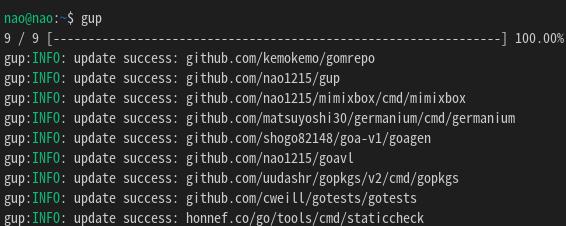
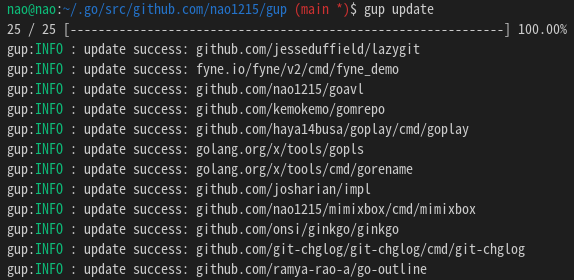
Update readme (for v0.6.0)

Changed region(s): [[0.0, 0.0, 1.0, 1.0], [0.2703, 0.0929, 0.5106, 0.1239], [0.5406, 0.0929, 0.6307, 0.1239]]

diff --git a/doc/ja/README.md b/doc/ja/README.md
@@ -2,7 +2,7 @@
 [![UnitTest](https://github.com/nao1215/gup/actions/workflows/unit_test.yml/badge.svg)](https://github.com/nao1215/gup/actions/workflows/unit_test.yml)
 [![reviewdog](https://github.com/nao1215/gup/actions/workflows/reviewdog.yml/badge.svg)](https://github.com/nao1215/gup/actions/workflows/reviewdog.yml)
 # gupとは
-**gup**コマンドは、"go install"でインストールしたバイナリを最新版にアップデートします。
+**gup**コマンドは、"go install"でインストールしたバイナリを最新版にアップデートします。gupは、\$GOPATH/bin (\$GOBIN) 以下にあるバイナリをするためのサブコマンドも提供しています。
 ![sample](../img/sample.png)
 # インストール方法
 ### Step.1 前準備
@@ -15,10 +15,10 @@ $ go install github.com/nao1215/gup@latest
 
 # 使用方法
 ### 全てのバイナリをアップデート
-全てのバイナリをアップデートしたい場合は、`$ gup`を実行してください。
+全てのバイナリをアップデートしたい場合は、`$ gup update`を実行してください。
 
 ```
-$ gup
+$ gup update
 29 / 29 [--------------------------------------------------------------] 100.00%
 gup:INFO: update success: github.com/nao1215/goavl
 gup:INFO: update success: github.com/uudashr/gopkgs/v2/cmd/gopkgs
@@ -64,6 +64,24 @@ $ gup --file=subaru,gup,ubume
 gup:INFO: update success: github.com/nao1215/gup
 gup:INFO: update success: github.com/nao1215/subaru
 gup:INFO: update success: github.com/nao1215/ubume/cmd/ubume
+```
+
+### 指定バイナリを削除
+\$GOPATH/bin (\$GOBIN) 以下にあるバイナリを削除する場合は、remove サブコマンドを使用してください。remove サブコマンドは、削除前に削除してよいかどうかを確認します。
+```
+$ gup remove subaru gal ubume
+gup:CHECK: remove /home/nao/.go/bin/subaru? [Y/n] Y
+gup:INFO : removed /home/nao/.go/bin/subaru
+gup:CHECK: remove /home/nao/.go/bin/gal? [Y/n] n
+gup:INFO : cancel removal /home/nao/.go/bin/gal
+gup:CHECK: remove /home/nao/.go/bin/ubume? [Y/n] Y
+gup:INFO : removed /home/nao/.go/bin/ubume
+```
+
+確認無しで削除したい場合は, --forceオプションを使用してください。
+```
+$ gup remove --force gal
+gup:INFO : removed /home/nao/.go/bin/gal
 ```
 
 ### エクスポート／インポートサブコマンド

diff --git a/README.md b/README.md
@@ -3,7 +3,7 @@
 [![reviewdog](https://github.com/nao1215/gup/actions/workflows/reviewdog.yml/badge.svg)](https://github.com/nao1215/gup/actions/workflows/reviewdog.yml)  
 [[日本語](./doc/ja/README.md)]  
 # gup - Update binaries installed by "go install"
-**gup** command update binaries installed by "go install" to the latest version.
+**gup** command update binaries installed by "go install" to the latest version. It also provides subcommands for manipulating binaries under \$GOPATH/bin (\$GOBIN).
 ![sample](./doc/img/sample.png)
 # How to install
 ### Step.1 Install golang
@@ -15,10 +15,10 @@ $ go install github.com/nao1215/gup@latest
 ```
 # How to use
 ### Update all binaries
-If you update all binaries, you just run `$ gup`. 
+If you update all binaries, you just run `$ gup update`. 
 
 ```
-$ gup
+$ gup update
 29 / 29 [--------------------------------------------------------------] 100.00%
 gup:INFO: update success: github.com/nao1215/goavl
 gup:INFO: update success: github.com/uudashr/gopkgs/v2/cmd/gopkgs
